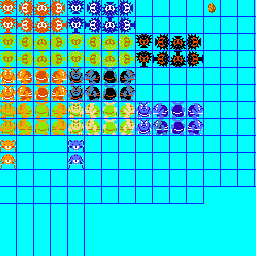
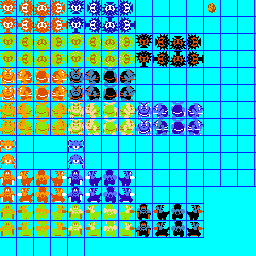
Adding Lynels

Changed region(s): [[0.0, 0.6562, 0.8125, 0.9375]]

diff --git a/src/app/zelda/enemy/Lynel.ts b/src/app/zelda/enemy/Lynel.ts
@@ -1,5 +1,5 @@
-import { Projectile } from '../Projectile';
 import { AbstractWalkingEnemy } from './AbstractWalkingEnemy';
+import { Projectile } from '../Projectile';
 import { ZeldaGame } from '../ZeldaGame';
 import { EnemyStrength } from './Enemy';
 declare let game: ZeldaGame;
@@ -7,14 +7,14 @@ declare let game: ZeldaGame;
 const CHANGE_DIR_TIMER_MAX: number = 120; // 2 seconds
 
 /**
- * An octopus-like creature that can shoot rocks.
+ * Sword-wielding centaur enemies that live on Death Mountain.
  */
-export class Octorok extends AbstractWalkingEnemy {
+export class Lynel extends AbstractWalkingEnemy {
 
-    private static readonly _PROJECTILE_THROWING_ODDS: ReadonlyArray<number> = Object.freeze([ 240, 120 ]);
+    private static readonly _PROJECTILE_THROWING_ODDS: number[] = [ 240, 120 ];
 
     constructor(strength: EnemyStrength = 'red') {
-        super(0, strength, strength === 'blue' ? 2 : 1);
+        super(10, strength, strength === 'blue' ? 4 : 3);
     }
 
     protected getChangeDirTimerMax(): number {
@@ -22,7 +22,7 @@ export class Octorok extends AbstractWalkingEnemy {
     }
 
     protected getSpeed(): number {
-        return this.strength === 'blue' ? 1 : 0.5;
+        return 0.5; //this.strength === 'blue' ? 1 : 0.5;
     }
 
     /**
@@ -33,7 +33,7 @@ export class Octorok extends AbstractWalkingEnemy {
      * @returns Whether this enemy should start throwing a projectile.
      */
     private shouldThrowProjectile(): boolean {
-        return game.randomInt(Octorok._PROJECTILE_THROWING_ODDS[this.strength === 'blue' ? 1 : 0]) === 0;
+        return game.randomInt(Lynel._PROJECTILE_THROWING_ODDS[this.strength === 'blue' ? 1 : 0]) === 0;
     }
 
     protected throwProjectile() {

diff --git a/src/app/zelda/editor/enemy-selector.tsx b/src/app/zelda/editor/enemy-selector.tsx
@@ -38,7 +38,8 @@ export default class EnemySelector extends React.Component<EnemySelectorProps, E
             choices: [
                 { label: 'Octorok', value: 'Octorok' },
                 { label: 'Moblin', value: 'Moblin' },
-                { label: 'Tektite', value: 'Tektite' }
+                { label: 'Tektite', value: 'Tektite' },
+                { label: 'Lynel', value: 'Lynel' },
             ],
             headers: [
                 { label: 'Enemy', cellKey: 'type' },
@@ -102,6 +103,9 @@ export default class EnemySelector extends React.Component<EnemySelectorProps, E
                 break;
             case 'Tektite':
                 enemies.push({ type: 'Tektite', args: [ 'blue' ], count: 2 });
+                enemies.push({ type: 'Tektite', count: 2 });
+                break;
+            case 'Lynel':
                 enemies.push({ type: 'Tektite', count: 2 });
                 break;
         }

diff --git a/src/app/zelda/enemy/Tektite.ts b/src/app/zelda/enemy/Tektite.ts
@@ -20,7 +20,7 @@ export class Tektite extends Enemy {
     private _curJumpDescentTime: number;
 
     constructor(strength: EnemyStrength = 'red') {
-        super(strength, strength === 'blue' ? 5 : 4, true); //2 : 1, true);
+        super(strength, strength === 'blue' ? 2 : 1, true);
         this.hitBox = new Rectangle();
 
         this._paused = true;

diff --git a/src/app/zelda/item/ItemDropStrategy.ts b/src/app/zelda/item/ItemDropStrategy.ts
@@ -24,10 +24,13 @@ export class ItemDropStrategy {
             redTektite: 'A',
             redMoblin: 'A',
 
+            blueLynel: 'B',
             blueOctorok: 'B',
             blueMoblin: 'B',
 
-            blueTektite: 'C'
+            blueTektite: 'C',
+
+            redLynel: 'D'
         };
 
         this.itemDropTable = {

diff --git a/src/app/zelda/editor/reducers.ts b/src/app/zelda/editor/reducers.ts
@@ -4,7 +4,7 @@ import { State } from './state';
 import { ZeldaGame } from '../ZeldaGame';
 import { Constants } from '../Constants';
 import { Map } from '../Map';
-import { Screen } from '../Screen';
+
 declare let game: ZeldaGame;
 
 // Initialize the game declared in zelda.ts

diff --git a/src/app/zelda/EnemyTypes.ts b/src/app/zelda/EnemyTypes.ts
@@ -1,3 +1,4 @@
+export { Lynel } from './enemy/Lynel';
 export { Moblin } from './enemy/Moblin';
 export { Octorok } from './enemy/Octorok';
 export { Tektite } from './enemy/Tektite';

diff --git a/README.md b/README.md
@@ -66,5 +66,4 @@ The source code lives in `src/`, and is built into `build/web/`.
 * More accurate Link getting hit colors
 * More accurate enemy spawning
 * Expanded map
-* Lynels
 * Gibdos
